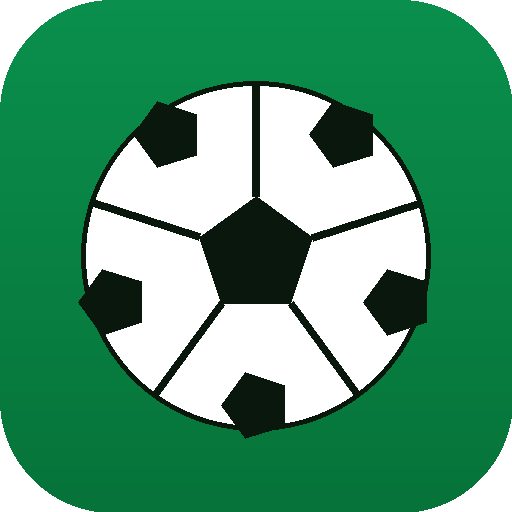
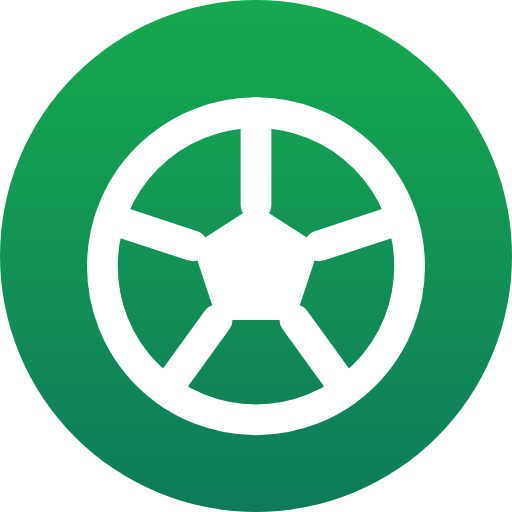
feat(marca): ícono de pelota estilizada + motivo de cancha en cabeceras internas
Dos detalles de identidad visual:
- Ícono de marca propio (pelota estilizada monoline) en vez del emoji ⚽: en
  el brand-mark del header (SVG inline, currentColor sobre el badge verde), en
  el favicon (data-URI SVG) y regenerados los PNG de la PWA (favicon-32,
  apple-touch-icon, icon-192/512 y maskable) desde el mismo diseño.
- Motivo de cancha en las cabeceras de sección internas (.section-head h2):
  una barra vertical con segmentos de césped a la izquierda del título, como
  una línea de banda.

Verificado por captura: header con la pelota nueva y la cabecera 'Ranking
físico del torneo' con la barra de banda; maskable con la pelota dentro de la
zona segura.

Claude-Session: https://claude.ai/code/session_019AM9rM2RZicv3rE9qCRGKJ

diff --git a/site/src/styles/global.css b/site/src/styles/global.css
@@ -1403,6 +1403,29 @@ tbody tr:hover td {
   flex-wrap: wrap;
 }
 
+/* Motivo "cancha" en las cabeceras internas: una barra vertical con segmentos
+   de césped (corte del pasto) a la izquierda del h2, como una línea de banda.
+   currentColor no aplica -> se usa el verde de marca directo. */
+.section-head h2 {
+  position: relative;
+  padding-left: 0.85rem;
+}
+
+.section-head h2::before {
+  content: "";
+  position: absolute;
+  left: 0;
+  top: 0.12em;
+  bottom: 0.12em;
+  width: 5px;
+  border-radius: 3px;
+  background: repeating-linear-gradient(
+    180deg,
+    var(--brand) 0 7px,
+    var(--brand-deep) 7px 14px
+  );
+}
+
 .section-head p {
   margin: 0;
   font-size: 0.88rem;
